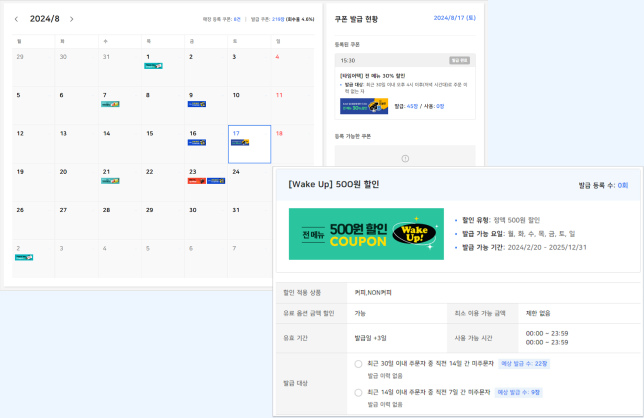
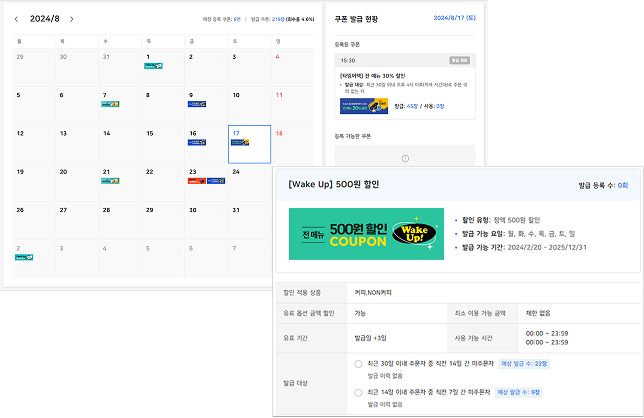
Fix S5 panel image size and text inset to match Figma exactly
- Image visual max-width 560px -> 644px (Figma's actual fixed image size)
- Panel padding: asymmetric 60px left / 40px right inset (was 0/0), matching
  Figma's fixed text-start and image-end offsets across all 3 tab panels
- justify-content center -> space-between so image position stays fixed
  regardless of text length, mirroring the source design

diff --git a/b-eat-landing/index.html b/b-eat-landing/index.html
@@ -699,10 +699,10 @@
   .s5 .panel {
     display: none;
     align-items: center;
-    justify-content: center;
+    justify-content: space-between;
     gap: clamp(24px, 3vw, 60px);
     flex-wrap: wrap;
-    padding: clamp(24px, 3vw, 48px);
+    padding: clamp(24px, 3vw, 48px) clamp(16px, 2.9vw, 40px) clamp(24px, 3vw, 48px) clamp(20px, 4.3vw, 60px);
     min-height: 498px;
   }
 
@@ -742,7 +742,7 @@
 
   .s5 .panel .visual {
     flex: 1 1 320px;
-    max-width: 560px;
+    max-width: 644px;
   }
 
   .s5 .panel .visual img {
@@ -755,7 +755,7 @@
     .s5 .solution { flex-direction: column; }
     .s5 .tabs { flex-direction: row; max-width: none; }
     .s5 .tab { height: 48px; }
-    .s5 .panel { flex-direction: column; text-align: center; }
+    .s5 .panel { flex-direction: column; justify-content: center; text-align: center; }
     .s5 .panel .text .sub { align-items: center; }
   }
 

diff --git a/b-eat-landing/s5.html b/b-eat-landing/s5.html
@@ -119,10 +119,10 @@
   .s5 .panel {
     display: none;
     align-items: center;
-    justify-content: center;
+    justify-content: space-between;
     gap: clamp(24px, 3vw, 60px);
     flex-wrap: wrap;
-    padding: clamp(24px, 3vw, 48px);
+    padding: clamp(24px, 3vw, 48px) clamp(16px, 2.9vw, 40px) clamp(24px, 3vw, 48px) clamp(20px, 4.3vw, 60px);
     min-height: 498px;
   }
 
@@ -162,7 +162,7 @@
 
   .s5 .panel .visual {
     flex: 1 1 320px;
-    max-width: 560px;
+    max-width: 644px;
   }
 
   .s5 .panel .visual img {
@@ -175,7 +175,7 @@
     .s5 .solution { flex-direction: column; }
     .s5 .tabs { flex-direction: row; max-width: none; }
     .s5 .tab { height: 48px; }
-    .s5 .panel { flex-direction: column; text-align: center; }
+    .s5 .panel { flex-direction: column; justify-content: center; text-align: center; }
     .s5 .panel .text .sub { align-items: center; }
   }
 </style>